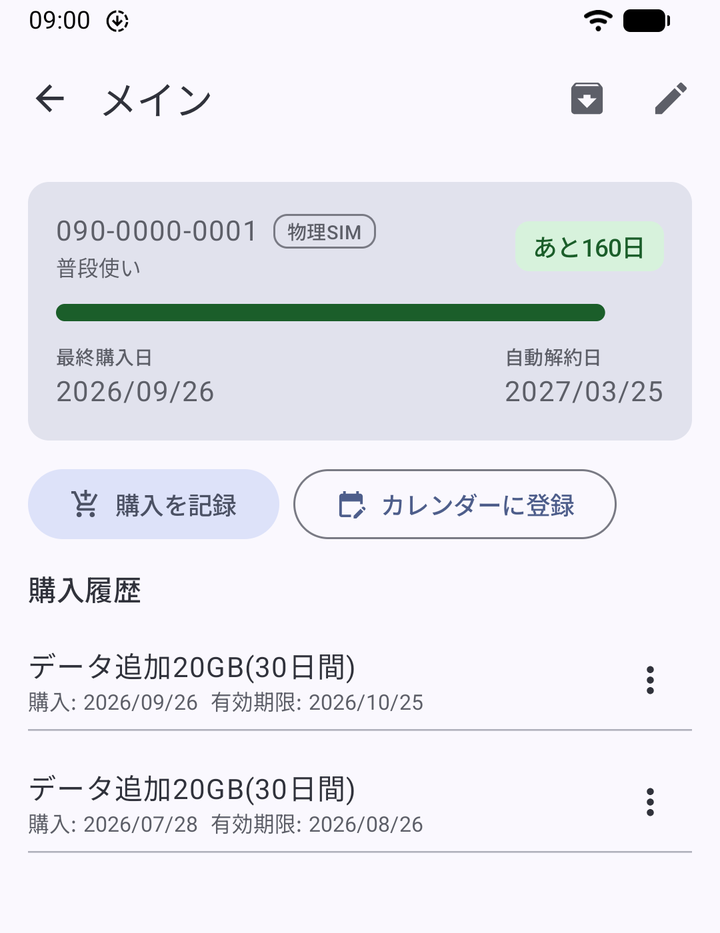
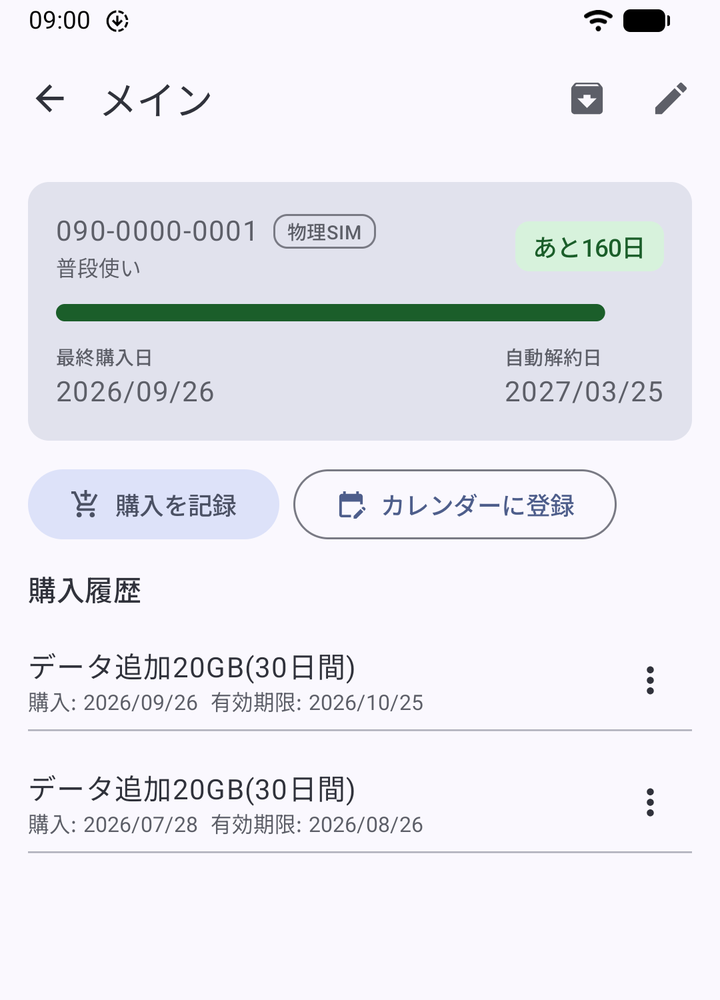
docs: 紹介ページの「作った理由」を削除し、切り出した画像の枠を調整
- 冒頭の説明と機能の説明に同じ内容があったため「作った理由」の段落を削除
- 下の空白を切り落とした画像(詳細・設定・通知・ウィジェット)は、枠の下側を平らにして切り口が見える表示に変更
- 詳細と設定の画像を同じ高さで切り出し直し

diff --git a/docs/index.html b/docs/index.html
@@ -255,14 +255,6 @@ p { margin: 0; }
 .exp { margin-top: 18px; font-size: 18px; font-weight: 700; line-height: 1.6; }
 .calc .note { margin-top: 6px; font-size: 15px; line-height: 1.7; }
 
-/* ---------- statement ---------- */
-.why { padding-top: var(--section); }
-.why p {
-  max-width: 34em;
-  font-size: clamp(20px, 2.1vw, 26px); line-height: 1.85; letter-spacing: .02em;
-}
-.why p + p { margin-top: 1.2em; font-size: 17px; color: var(--ink-2); max-width: 40em; }
-
 /* ---------- feature rows ---------- */
 .feature { padding-top: var(--section); }
 .row {
@@ -292,6 +284,11 @@ p { margin: 0; }
 .phone img { border-radius: 26px; width: 100%; }
 .phone.wide { max-width: 520px; border-radius: 30px; }
 .phone.wide img { border-radius: 22px; }
+/* 下の空白を切り落とした画像: 切り口が見えるように下側の角丸と余白をなくす */
+.phone.cut { padding-bottom: 0; border-radius: 34px 34px 0 0; }
+.phone.cut img { border-radius: 26px 26px 0 0; }
+.phone.wide.cut { border-radius: 30px 30px 0 0; }
+.phone.wide.cut img { border-radius: 22px 22px 0 0; }
 
 .bands { list-style: none; padding: 0; margin: 28px 0 0; display: flex; flex-wrap: wrap; gap: 10px; }
 .bands li {
@@ -458,11 +455,6 @@ footer { background: var(--field); color: var(--field-ink-2); padding: clamp(64p
   </div>
 </section>
 
-<section class="why wrap" aria-label="作った理由">
-  <p class="rv">povo は基本料0円のまま回線を置いておけるので、サブ回線やデータ専用に2本、3本と増やしがちです。ただ、180日トッピングを買わずにいると解約されることがあります。</p>
-  <p class="rv" style="--d:80ms">1回線ならカレンダーに書いておけば足ります。2回線、3回線になると、どの番号でいつ何を買ったかを覚えていられません。それで、数える係をアプリにしました。</p>
-</section>
-
 <section class="feature wrap" id="features">
   <div class="row">
     <div class="shot-col rv">
@@ -515,7 +507,7 @@ footer { background: var(--field); color: var(--field-ink-2); padding: clamp(64p
         <h3>トッピングの期限も</h3>
         <p>データ追加などのトッピングにも有効期限があります。こちらは初期設定で3日前と前日に知らせます。</p>
       </div>
-      <figure class="phone wide" data-shot style="margin:0">
+      <figure class="phone wide cut" data-shot style="margin:0">
         <img src="img/notification.png" alt="通知シェードに povo Manager の通知が出ている画面" width="720" height="720" decoding="async" onerror="this.parentNode.hidden=true" onload="var f=this.parentNode.parentNode.querySelector('[data-fallback]');if(f)f.hidden=true">
       </figure>
     </div>
@@ -525,7 +517,7 @@ footer { background: var(--field); color: var(--field-ink-2); padding: clamp(64p
 <section class="feature wrap" aria-labelledby="widget-h">
   <div class="row flip">
     <div class="shot-col rv">
-      <figure class="phone wide" data-shot>
+      <figure class="phone wide cut" data-shot>
         <img src="img/widget.png" alt="スマートフォンのホーム画面に置いた povo Manager のウィジェット" width="720" height="880" decoding="async" onerror="this.parentNode.hidden=true" onload="var f=this.parentNode.parentNode.querySelector('[data-fallback]');if(f)f.hidden=true">
       </figure>
     </div>
@@ -572,8 +564,8 @@ footer { background: var(--field); color: var(--field-ink-2); padding: clamp(64p
     <div class="rv" style="--d:210ms"><dt>180日を変える</dt><dd>povo の規約が変わったときのために、解約までの日数を1日から3650日のあいだで変えられます。</dd></div>
   </dl>
   <div class="pair">
-    <figure class="phone" data-shot><img src="img/detail.png" alt="回線の詳細画面。自動解約日とトッピングの購入履歴が並んでいる" width="720" height="933" decoding="async" onerror="this.parentNode.hidden=true" onload="var f=this.parentNode.parentNode.querySelector('[data-fallback]');if(f)f.hidden=true"></figure>
-    <figure class="phone" data-shot><img src="img/settings.png" alt="設定画面。通知のタイミングと通知時刻を選ぶ項目がある" width="720" height="1600" decoding="async" onerror="this.parentNode.hidden=true" onload="var f=this.parentNode.parentNode.querySelector('[data-fallback]');if(f)f.hidden=true"></figure>
+    <figure class="phone cut" data-shot><img src="img/detail.png" alt="回線の詳細画面。自動解約日とトッピングの購入履歴が並んでいる" width="720" height="1000" decoding="async" onerror="this.parentNode.hidden=true" onload="var f=this.parentNode.parentNode.querySelector('[data-fallback]');if(f)f.hidden=true"></figure>
+    <figure class="phone cut" data-shot><img src="img/settings.png" alt="設定画面。通知のタイミングと通知時刻を選ぶ項目がある" width="720" height="1000" decoding="async" onerror="this.parentNode.hidden=true" onload="var f=this.parentNode.parentNode.querySelector('[data-fallback]');if(f)f.hidden=true"></figure>
   </div>
 </section>
 

diff --git a/docs/img/README.md b/docs/img/README.md
@@ -3,7 +3,7 @@
 `docs/index.html` が下のファイル名で読み込みます。置いていないファイルの枠はページに出ません。
 ホーム画面だけは、画像が無い間は HTML で作った見本が代わりに出ます。
 
-今ある画像はエミュレータ（Android 16、1080×2400）でダミーの4回線を入れて撮り、幅 720px に縮めたものです。通知は上半分、ウィジェットはホーム画面の上部だけを切り出しています。
+今ある画像はエミュレータ（Android 16、1080×2400）でダミーの4回線を入れて撮り、幅 720px に縮めたものです。詳細・設定・通知・ウィジェットは下の空白を切り落としてあり、ページ側で下側を平らな切り口にして表示します。
 
 | ファイル名 | 画面 | 写したいもの |
 |---|---|---|
